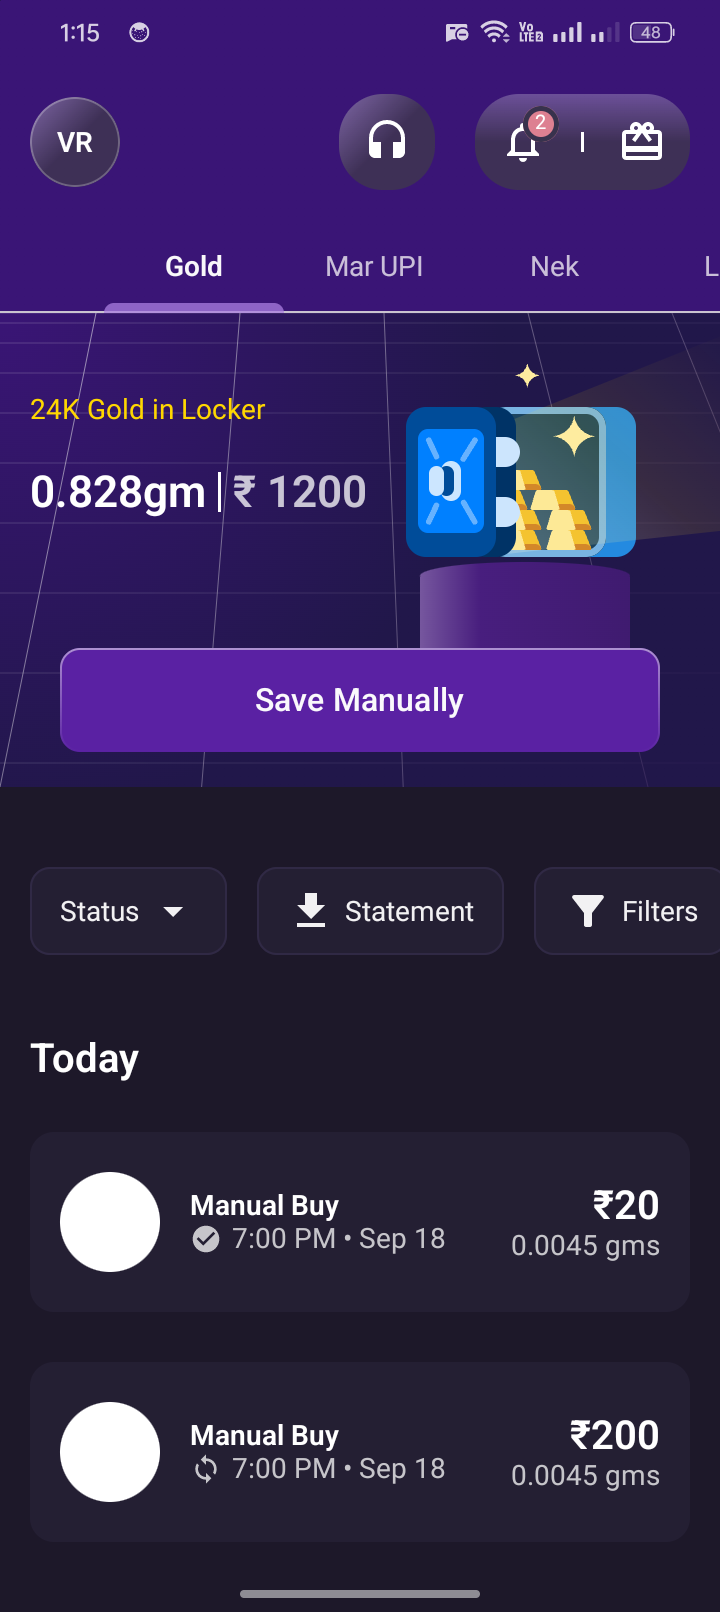
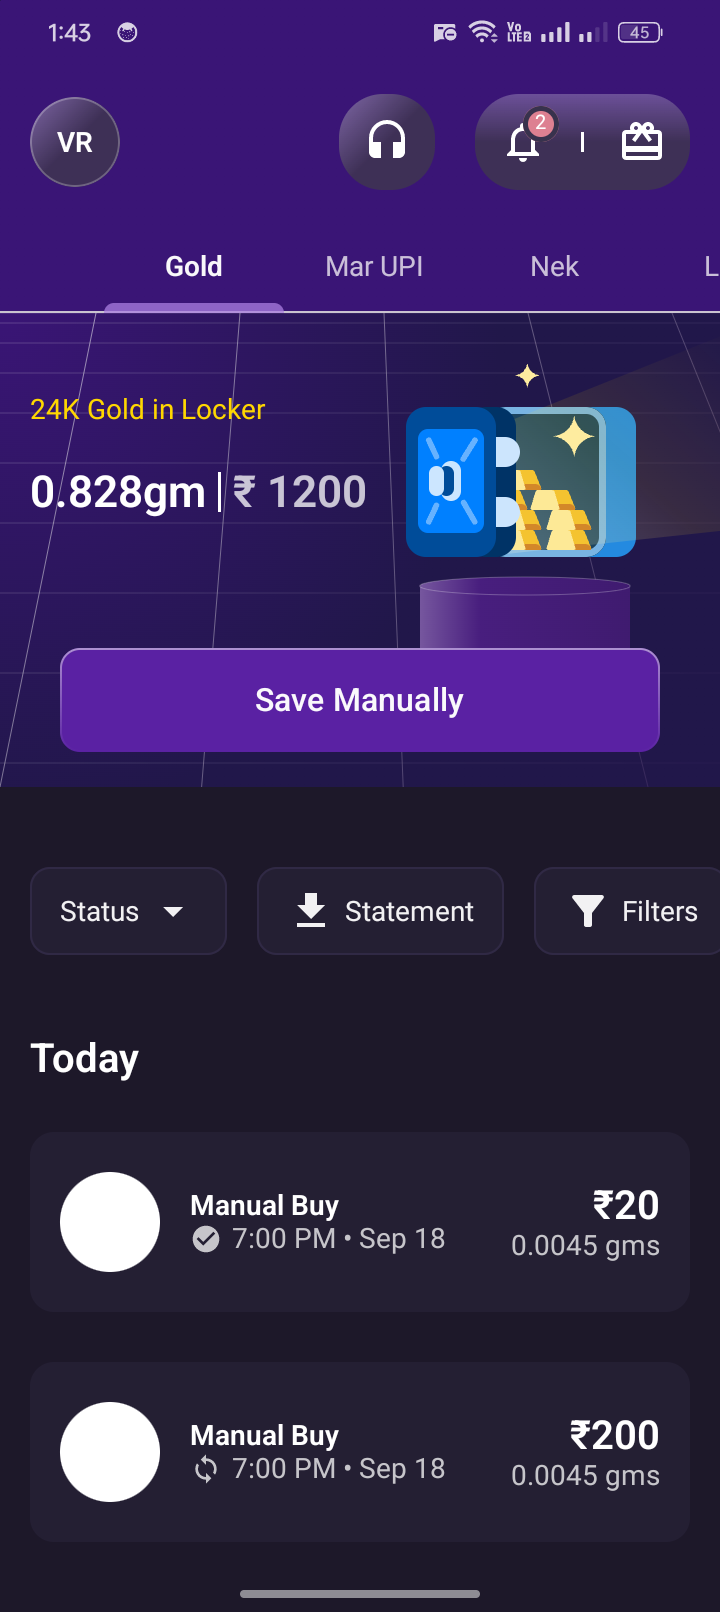
Update `Locker` Component

Changed region(s): [[0.6111, 0.0, 0.9472, 0.031], [0.5806, 0.3412, 0.8861, 0.3722], [0.0611, 0.0, 0.2139, 0.031]]

diff --git a/app/src/main/java/com/example/stomatoassignment/gold/presentation/GoldScreen.kt b/app/src/main/java/com/example/stomatoassignment/gold/presentation/GoldScreen.kt
@@ -41,6 +41,7 @@ import androidx.compose.ui.geometry.Size
 import androidx.compose.ui.graphics.Brush
 import androidx.compose.ui.graphics.Color
 import androidx.compose.ui.graphics.Path
+import androidx.compose.ui.graphics.drawscope.Stroke
 import androidx.compose.ui.graphics.drawscope.scale
 import androidx.compose.ui.graphics.vector.ImageVector
 import androidx.compose.ui.text.font.FontWeight
@@ -150,18 +151,6 @@ fun GoldScreen() {
                             )
                         }
 
-                        drawOval(
-                            brush = Brush.horizontalGradient(
-                                listOf(
-                                    Color.White,
-                                    Color.White,
-                                    Color(0xFF481E7E),
-                                    Color(0xFF3A1967),
-                                )
-                            ),
-                            size = Size(210f, 28f),
-                            topLeft = Offset(x = size.width - 300f, y = size.height - 225)
-                        )
                         drawRoundRect(
                             brush = Brush.horizontalGradient(
                                 listOf(
@@ -172,6 +161,26 @@ fun GoldScreen() {
                                 )
                             ),
                             size = Size(210f, 100f),
+                            topLeft = Offset(x = size.width - 300f, y = size.height - 200)
+                        )
+
+                        drawOval(
+                            brush = Brush.horizontalGradient(
+                                listOf(
+                                    Color.White,
+                                    Color.White,
+                                    Color(0xFF481E7E),
+                                    Color(0xFF3A1967),
+                                )
+                            ),
+                            size = Size(210f, 18f),
+                            topLeft = Offset(x = size.width - 300f, y = size.height - 210)
+                        )
+
+                        drawOval(
+                            style = Stroke(1f),
+                            color = Color.White.copy(0.25f),
+                            size = Size(210f, 18f),
                             topLeft = Offset(x = size.width - 300f, y = size.height - 210)
                         )
                     }) {
